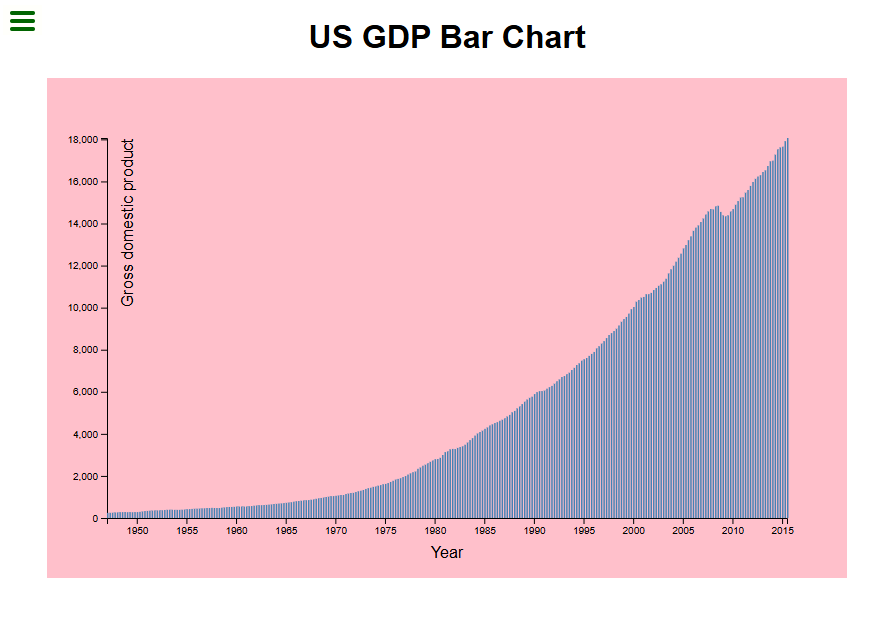
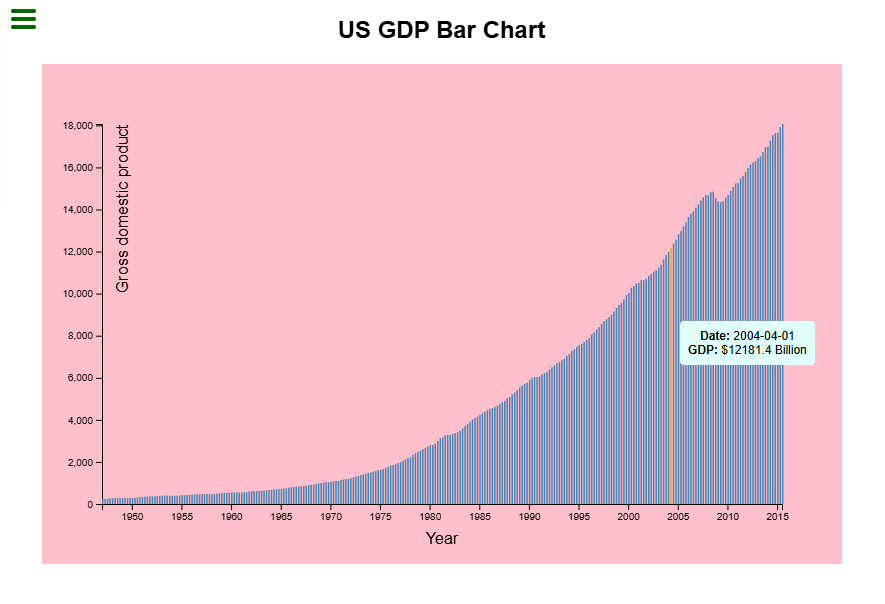
Chore: updated readme

Changed region(s): [[0.0305, 0.0298, 0.9763, 0.9536], [0.0, 0.0, 0.061, 0.0596]]

diff --git a/Data Visualization with D3/Bar chart GDP/styles.css b/Data Visualization with D3/Bar chart GDP/styles.css
@@ -1,6 +1,14 @@
-/* General Styles */
 body {
     font-family: Arial, sans-serif;
+    text-align: center;
+}
+
+#title {
+    font-size: 24px;
+    margin: 20px auto;
+    width: 800px;
+    display: block;
+    font-weight: bold;
     text-align: center;
 }
 
@@ -12,7 +20,6 @@ svg {
     margin: auto;
 }
 
-/* Bar Styles */
 .bar {
     fill: steelblue;
 }
@@ -21,13 +28,12 @@ svg {
     fill: orange;
 }
 
-/* Tooltip Styles */
 #tooltip {
     position: absolute;
     visibility: hidden;
     padding: 8px;
-    background: green;
-    color: #fff;
+    background: lightcyan;
+    color: black;
     pointer-events: none;
     font-size: 12px;
     border-radius: 4px;

diff --git a/README.md b/README.md
@@ -41,3 +41,13 @@ Self completed projects from freeCodeCamp [curriculum](https://www.freecodecamp.
 | Drum Machine          | React, JavaScript | pending    |
 | JavaScript Calculator | React, JavaScript | pending    |
 | 25 + 5 Clock          | React, JavaScript | pending    |
+
+## 📊 Data Visualization with D3
+
+| Project           | Tech            | Source URL                                   |
+| ----------------- | --------------- | -------------------------------------------- |
+| Bar Chart         | D3.js, HTML CSS | [View project](https://tinyurl.com/24kbxj7z) |
+| Scatterplot Graph | D3.js, HTML CSS | [View project](https://tinyurl.com/2cm7xt9x) |
+| Heat Map          | D3.js, HTML CSS | pending                                      |
+| Choropleth Map    | D3.js, HTML CSS | pending                                      |
+| Treemap Diagram   | D3.js, HTML CSS | pending                                      |
